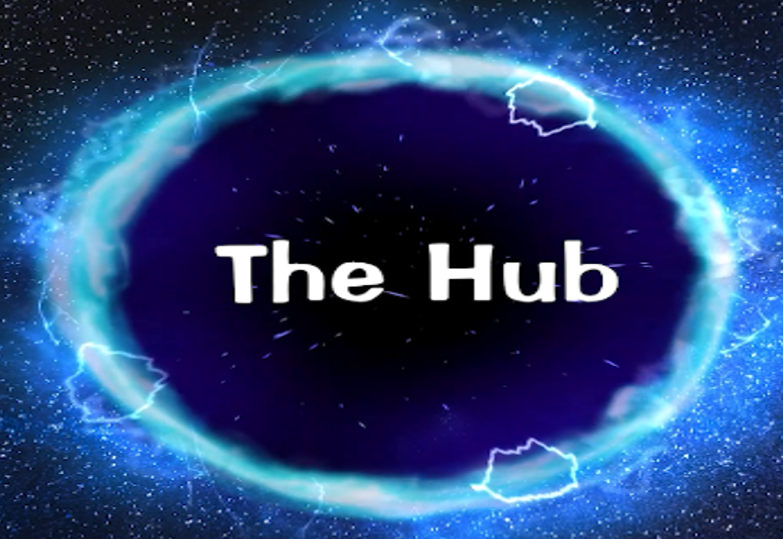
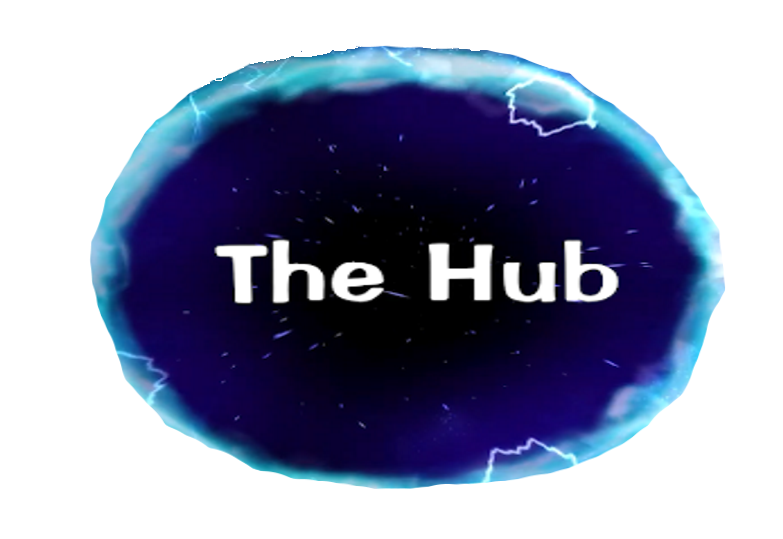
Edited The Hub/Games
I edited th.png to remove the background and I edited Games.html so that in case the image doesn't load, the text appears white instead of purple or blue!

diff --git a/Games.html b/Games.html
@@ -19,7 +19,7 @@
 			<center><a href="/"><img src="assets/img/Banner.png" alt="Banner/Home Button"></a></center>
 		</header>
 
-		<center><a href="Hub"><img src="assets/img/TH.png" alt="Download the Hub"></a></center>
+		<center><a href="Hub"><img src="assets/img/TH.png" alt="Download the Hub" style="color: white"></a></center>
 	</body>
 		<footer>
 			<a href="mailto:zacharyp1aysgamez@gmail.com" style="color: white"> <img src="assets/img/Gmail.png"</a> <a href="https://twitter.com/player1gamez" alt="Check out my Twitter!" style="color: white"><img src="assets/img/Twitter.png"></a>
